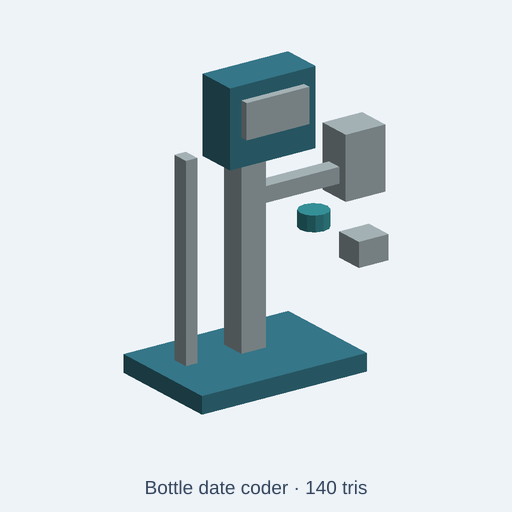
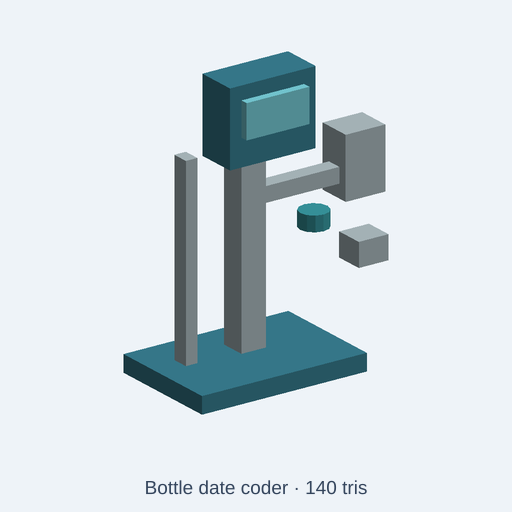
fix(catalog): render the bottle date coder's touchscreen as display glass
The operator touchscreen on beverage-bottling-line/bottle-date-coder
matched no finish rule, so it fell through to stainless steel and read
as a grey metal plate on the controller face. Add a displayGlass control
(#79cfda, "Display glass", the catalog's shared default) and route the
screen part to it. Both presets set it (sanitaryLine #8fdbe4,
legacyPlant #5aa9b5). Geometry, part names and the triangle count
(140 / 2,200) are unchanged.

The new GLB colour test fails on the old source (colour controls lack
displayGlass) and passes on the fix. tests/integration/catalog: 119/119
files, 187/187 tests pass. ESLint on the asset and test: clean.
checkCatalogQuality.py on the kit: 50/50 pass. The index diff touches
only the bottle-date-coder row. A before/after MP4 was inspected locally.

Preview audit ledger (beverage-bottling-line; no open issue/PR target):
- bottle-date-coder: touchscreen stainless, should be display glass ->
  fixed here. The adjustment wheel and photoeye float with no bracket;
  noted.
- bottle-reject-pusher: materials correct. Legs stand in one centre
  row; the reject chute floats; noted.
- cip-valve-manifold: materials correct. The supply, return and cross
  headers stand as 850 mm vertical pillars, not horizontal pipes; the
  mount feet touch nothing; noted (geometry).
- neck-handling-air-conveyor: spine, columns, polymer neck guides; no
  defect.
- flash-pasteurizer: materials correct. The plate pack is hidden inside
  a solid exchanger block; noted.

Changed region(s): [[0.4688, 0.1562, 0.625, 0.2812]]

diff --git a/tests/integration/catalog/bottleDateCoderScreenMaterial.test.ts b/tests/integration/catalog/bottleDateCoderScreenMaterial.test.ts
@@ -1,0 +1,63 @@
+// SPDX-License-Identifier: MIT
+// Copyright (c) 2026 Andrii Shylenko and kernelCAD contributors
+
+import { resolve } from 'node:path';
+import { NodeIO } from '@gltf-transform/core';
+import { beforeAll, describe, expect, it } from 'vitest';
+import { buildCatalogAssetWithGlb } from '../../../src/agent/catalog/buildCatalog';
+import { initOcct } from '../../../src/kernel/backends/occt/occtBackend';
+
+const repoRoot = resolve(import.meta.dirname, '../../..');
+const source = 'catalog/kits/beverage-bottling-line/bottle-date-coder.kcad.ts';
+
+beforeAll(async () => {
+  await initOcct();
+}, 120_000);
+
+describe('beverage-bottling-line/bottle-date-coder materials', () => {
+  it('renders the touchscreen as display glass, not stainless steel', async () => {
+    const { asset, glb } = await buildCatalogAssetWithGlb(repoRoot, source);
+
+    expect(asset.stats.triangles).toBeLessThanOrEqual(asset.triangleBudget);
+    expect(asset.params.filter((param) => param.type === 'color').map((param) => param.name)).toEqual([
+      'stainlessSteel', 'powderCoat', 'foodPolymer', 'displayGlass',
+    ]);
+    expect(Object.keys(asset.presets)).toEqual(['sanitaryLine', 'legacyPlant']);
+
+    const document = await new NodeIO().readBinary(glb);
+    const nodes = document.getRoot().listNodes();
+    const colorsFor = (name: string) => {
+      const node = nodes.find((candidate) => candidate.getName() === name);
+      return node?.getMesh()?.listPrimitives().flatMap((primitive) => {
+        const vertexColors = primitive.getAttribute('COLOR_0');
+        if (vertexColors !== null) {
+          return Array.from({ length: vertexColors.getCount() }, (_, index) => {
+            const color = vertexColors.getElement(index, []);
+            return color.slice(0, 3).map((channel) =>
+              channel <= 0.0031308 ? 12.92 * channel : 1.055 * channel ** (1 / 2.4) - 0.055,
+            );
+          });
+        }
+        const material = primitive.getMaterial();
+        return material === null ? [] : [material.getBaseColorFactor().slice(0, 3)];
+      }) ?? [];
+    };
+    const matches = (hex: string) => {
+      const expected = [1, 3, 5].map((shift) => parseInt(hex.slice(shift, shift + 2), 16) / 255);
+      return (color: number[]) => expected.every((channel, index) =>
+        Math.abs(channel - color[index]!) < 0.015,
+      );
+    };
+
+    const screen = colorsFor('screen');
+    expect(screen.length).toBeGreaterThan(0);
+    expect(screen.every(matches('#79cfda')), 'touchscreen should be display glass').toBe(true);
+    expect(screen.some(matches('#aebdc1')), 'touchscreen must not be stainless steel').toBe(false);
+    const controller = colorsFor('controller');
+    expect(controller.length).toBeGreaterThan(0);
+    expect(controller.every(matches('#397e91')), 'controller enclosure should stay powder-coated steel').toBe(true);
+    const printHead = colorsFor('print-head');
+    expect(printHead.length).toBeGreaterThan(0);
+    expect(printHead.every(matches('#aebdc1')), 'print head should stay stainless steel').toBe(true);
+  }, 120_000);
+});

diff --git a/catalog/kits/beverage-bottling-line/bottle-date-coder.kcad.ts b/catalog/kits/beverage-bottling-line/bottle-date-coder.kcad.ts
@@ -5,7 +5,7 @@ meta({
   name: "bottle-date-coder",
   license: 'CC0-1.0',
   title: "Bottle date coder",
-  description: "Compact inkjet coding head and touchscreen stand beside a moving-bottle guide. Knobs: overall scale and color controls for stainless steel, powder-coated steel, and food-grade polymer.",
+  description: "Compact inkjet coding head and touchscreen stand beside a moving-bottle guide. Knobs: overall scale and color controls for stainless steel, powder-coated steel, food-grade polymer, and touchscreen display glass.",
   tags: ['beverage bottling', 'packaging line', 'food manufacturing', 'low poly', 'CC0'],
   kit: 'beverage-bottling-line',
   category: 'prop',
@@ -18,17 +18,20 @@ const scale = param('scale', 1, { label: 'Overall scale', min: 0.65, max: 1.3, s
 const stainlessSteel = param('stainlessSteel', '#aebdc1', { label: 'Stainless steel' });
 const powderCoat = param('powderCoat', '#397e91', { label: 'Powder-coated steel' });
 const foodPolymer = param('foodPolymer', '#3999a1', { label: 'Food-grade polymer' });
+const displayGlass = param('displayGlass', '#79cfda', { label: 'Display glass' });
 
 presets({
   sanitaryLine: {
     stainlessSteel: '#d2dfe1',
     powderCoat: '#4b95a4',
     foodPolymer: '#2c828c',
+    displayGlass: '#8fdbe4',
   },
   legacyPlant: {
     stainlessSteel: '#858f91',
     powderCoat: '#315b70',
     foodPolymer: '#286c75',
+    displayGlass: '#5aa9b5',
   },
 });
 const boxPart = (x:number,y:number,z:number,w:number,d:number,h:number) => box(w,d,h,true).translate(x,y,z+h/2).scale(scale);
@@ -37,6 +40,7 @@ const cylinderPart = (x:number,y:number,z:number,h:number,r:number,n=10) => cyli
 const p = assembly("bottle-date-coder");
 const finishPart = (name: string, shape: ReturnType<typeof boxPart>) => {
   const component = name.toLowerCase();
+  if (/screen/i.test(component)) return shape.color(displayGlass);
   if (/belt|guide|film|web|label|pad|seal|grip|cap|bottle|liner|tray|hose|cleat|divider|wheel|wrap|tape|suction|sleeve/i.test(component)) return shape.color(foodPolymer);
   if (/base|leg|foot|frame|support|stand|control|housing|cabinet|motor|drive|beam|panel|hood|skid|mount|platform|guard|rail|post|lift|jacket/i.test(component)) return shape.color(powderCoat);
   return shape.color(stainlessSteel);
